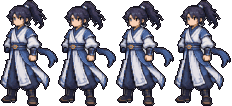
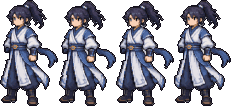
Nhịp thở cả người: nửa thân dưới, tà áo và vũ khí cùng chuyển động
- hero_full: cả người (trừ ủng) hạ 1px ở khung 1-2, tà áo phất ngược nhịp dải đai
- Vũ khí / quyền sáo / quạt nhún cùng nhịp bằng CSS wpn-breath
- hero_poses.py xóa nắm tay theo khung thở; version 0.10.5

Claude-Session: https://claude.ai/code/session_014A94BHnyL4tu48AS77QbVM

Changed region(s): [[0.2414, 0.3962, 0.7543, 0.8774], [0.9052, 0.7075, 0.9957, 0.8491], [0.7543, 0.7075, 0.7845, 0.8491]]

diff --git a/src/ui/styles.css b/src/ui/styles.css
@@ -50,12 +50,12 @@
 /* khung viền vàng pixel art (9 mảnh, mỗi góc 8px ảnh → 16px màn hình) */
 .fr { border: 16px solid transparent; border-image: url('/ui/frame_panel.png') 8 fill / 16px / 0 stretch; image-rendering: pixelated; }
 .hero-sprite { --s: 3; flex-shrink: 0; width: calc(58px * var(--s)); height: calc(106px * var(--s));
-  background: url('/ui/hero_full.png?v=0.9.5') 0 0 / calc(232px * var(--s)) calc(106px * var(--s)) no-repeat; image-rendering: pixelated;
+  background: url('/ui/hero_full.png?v=0.10.5') 0 0 / calc(232px * var(--s)) calc(106px * var(--s)) no-repeat; image-rendering: pixelated;
   animation: hero-idle 1s steps(4) infinite; filter: drop-shadow(0 6px 0 rgba(10, 16, 48, 0.35)); }
 @keyframes hero-idle { from { background-position: 0 0; } to { background-position: calc(-232px * var(--s)) 0; } }
 .avatar { position: relative; width: 52px; height: 52px; border-radius: 50%; overflow: hidden; flex-shrink: 0;
   background: radial-gradient(circle at 50% 35%, #8ccaf8, #2763d0); border: 2px solid #e8b24a; box-shadow: 0 0 0 2px #0a1030, 0 0 10px #ffd96a66; }
-.avatar i { position: absolute; inset: 0; background: url('/ui/hero_full.png?v=0.9.5') -16px -12px / 464px 212px no-repeat; image-rendering: pixelated; }
+.avatar i { position: absolute; inset: 0; background: url('/ui/hero_full.png?v=0.10.5') -16px -12px / 464px 212px no-repeat; image-rendering: pixelated; }
 
 /* ---------- Menu chính ---------- */
 .menu { overflow: hidden; --frame: #e8b24a; --frame-hi: #fff0b0; --panel1: #1c2a63; --panel2: #0e1738; }
@@ -542,8 +542,12 @@
 /* lớp: vũ khí phía sau (1) → nhân vật (2) → vũ khí phía trước (3) → bí bảo (5) */
 .figure .wpn { position: absolute; z-index: 1; image-rendering: pixelated; pointer-events: none; max-height: none; }
 .figure .wpn.front { z-index: 3; }
+/* vũ khí cầm tay nhún cùng nhịp thở với hero_full (1s, 4 khung; khung 1-2 cả người hạ 1px ảnh).
+   Dùng thuộc tính `translate` riêng để không đè `transform: rotate` của .turn-r180. */
+.figure .wpn { animation: wpn-breath 1s steps(1, end) infinite; }
+@keyframes wpn-breath { 0%, 75%, 100% { translate: 0 0; } 25%, 50% { translate: 0 calc(1px * var(--s)); } }
 .figure .wpn.turn-r180 { transform: rotate(180deg); }
-.figure .hero-sprite.pose-fan { background-image: url('/ui/hero_full_fan.png?v=0.10.2'); }
+.figure .hero-sprite.pose-fan { background-image: url('/ui/hero_full_fan.png?v=0.10.5'); }
 .figure .bb-float { position: absolute; z-index: 5; right: -8%; top: 4%; image-rendering: pixelated; pointer-events: none;
   filter: drop-shadow(0 0 6px rgba(143, 228, 248, 0.85)); animation: bb-bob 2.6s ease-in-out infinite; }
 .figure .bb-float.bb-left { right: auto; left: -10%; }
@@ -553,4 +557,4 @@
   .eq-slot .eq-name { font-size: 9.5px; }
   .it-tile .gi { max-height: 40px; }
 }
-@media (prefers-reduced-motion: reduce) { .figure .bb-float, .q-dao::after, .dao-text { animation: none; } }
+@media (prefers-reduced-motion: reduce) { .figure .wpn, .figure .bb-float, .q-dao::after, .dao-text { animation: none; } }

diff --git a/tools/art/hero.px.js b/tools/art/hero.px.js
@@ -25,12 +25,25 @@ function shift(c, x0, y0, x1, y1, dx, dy) {
   for (const [x, y, k] of buf) if (k && k !== '.' && k !== '_') c.px(x + dx, y + dy, k)
 }
 
+/** Phất tà áo sang ngang 1 bước. Khi phất RA NGOÀI, cột phía trong bị bỏ trống được giữ màu cũ (không để lỗ hở). */
+function hem(c, r, dx, outerRight) {
+  if (!dx) return
+  const outward = outerRight ? dx > 0 : dx < 0
+  if (!outward) return shift(c, r[0], r[1], r[2], r[3], dx, 0)
+  const buf = []
+  for (let y = r[1]; y < r[3]; y++) for (let x = r[0]; x < r[2]; x++) buf.push([x, y, c.key(x, y)])
+  for (const [x, y, k] of buf) if (k && k !== '.' && k !== '_') c.px(x + dx, y, k)
+}
+
 // Mốc trên lưới 56x104 (xem số hàng trong hero_trace.px.js)
 // Chạy lại trace_hero.py thì kiểm tra lại các mốc này (in lưới ra xem hàng / cột).
 const BELT = 41                   // hàng trên cùng của đai lưng
 const BODY_X = 36                 // cột giữa thân (khóa đai)
 const RIBBON = [0, 48, 19, 66]    // dải đai bay (x0, y0, x1, y1)
 const TAIL = [10, 13, 25, 28]     // đuôi tóc rủ bên trái
+const BOOT = 88                   // hàng trên cùng của đôi ủng (đứng yên khi thở)
+const HEM_L = [8, 74, 20, 89]     // tà áo ngoài bên trái (x0, y0, x1, y1)
+const HEM_R = [47, 74, 56, 88]    // tà áo ngoài bên phải
 /** Khóa màu của concept gần nhất với một màu cho trước (lấy đúng chất liệu: quần, áo, da...) */
 const nearest = (hex) => {
   const rgb = (h) => [1, 3, 5].map((i) => parseInt(h.slice(i, i + 2), 16))
@@ -47,11 +60,15 @@ sprite('_hero_base', G.HERO_GRID)
 anim('hero_full', { w: 56, h: 104, frames: 4, fps: 4, outline: 'k', flip: 'x' }, (c) => {
   c.stamp('_hero_base', 0, 0)
   const f = c.frame
-  // thở: thân trên hạ 1px ở khung 1-2 (chân + vạt áo đứng yên)
-  if (f === 1 || f === 2) shift(c, 0, 0, 56, BELT, 0, 1)
+  // thở: CẢ NGƯỜI (trừ đôi ủng) hạ 1px ở khung 1-2 → thân trên, tay, vạt áo, quần cùng nhún theo nhịp thở
+  // (vũ khí / quyền sáo / quạt cầm tay nhún cùng nhịp bằng CSS: .figure .wpn, xem styles.css)
+  if (f === 1 || f === 2) shift(c, 0, 0, 56, BOOT, 0, 1)
   // dải đai + đuôi tóc lay theo gió
   const sway = [0, -1, 0, 1][f]
   shift(c, RIBBON[0], RIBBON[1], RIBBON[2], RIBBON[3], sway, f === 2 ? -1 : 0)
+  // tà áo hai bên phất nhẹ ngược nhịp với dải đai
+  hem(c, HEM_L, -sway, false)
+  hem(c, HEM_R, sway, true)
   if (f === 1 || f === 2) shift(c, TAIL[0], TAIL[1] + 1, TAIL[2], TAIL[3] + 1, -1, 0)
 })
 

diff --git a/tools/art/hero_poses.py b/tools/art/hero_poses.py
@@ -18,11 +18,13 @@ FW = 58                     # bề rộng một khung
 FIST = (3, 52, 10, 60)      # x0, y0, x1, y1: nắm tay phải + cổ tay áo trên khung đã lật
 OUTLINE = (18, 14, 28, 255)
 SLEEVE_IN = (38, 40, 56, 255)
+BREATH = [0, 1, 1, 0]       # hero_full: cả người (trừ ủng) hạ 1px ở khung 1-2 → nắm tay cũng hạ theo
 
 a = np.array(Image.open(SRC).convert('RGBA'))
 for f in range(a.shape[1] // FW):
     fr = a[:, f * FW:(f + 1) * FW]
     x0, y0, x1, y1 = FIST
+    y0 += BREATH[f]; y1 += BREATH[f]
     fr[y0:y1, x0:x1] = 0
     # miệng ống tay áo: hàng ngay trên vùng xóa, những điểm là vải (không phải viền) → tô tối
     for x in range(x0 + 1, x1 - 1):

diff --git a/CHANGELOG.md b/CHANGELOG.md
@@ -1,5 +1,11 @@
 # Lịch sử phiên bản
 
+## v0.10.5 — Nhịp thở cả người
+- Hoạt ảnh đứng (`hero_full`): khi thở CẢ NGƯỜI hạ 1px (trước đây chỉ thân trên, nửa dưới đứng im); chỉ đôi ủng giữ nguyên trên mặt đất.
+- Hai tà áo ngoài phất nhẹ ngược nhịp với dải đai; khi phất ra ngoài không để lộ khe hở.
+- Vũ khí cầm tay, quyền sáo, quạt nhún cùng nhịp thở (CSS `wpn-breath`, dùng `translate` để không đè góc xoay của kiếm/đao).
+- `hero_poses.py`: xóa nắm tay theo đúng khung thở khi tạo `hero_full_fan.png`.
+
 ## v0.10.4 — Chỉnh thương và quyền sáo
 - **Thương**: đảo đầu — mũi thương chĩa xuống trước chân (lộ rõ), đốc cán ở sau vai phải.
 - **Quyền sáo**: vẽ lại thành găng giáp có khối và viền đen (ống cổ tay, phiến giáp mu bàn tay, gai đốt ngón nhô ra trước), to hơn nắm tay một chút để không còn trông như hình xăm.
